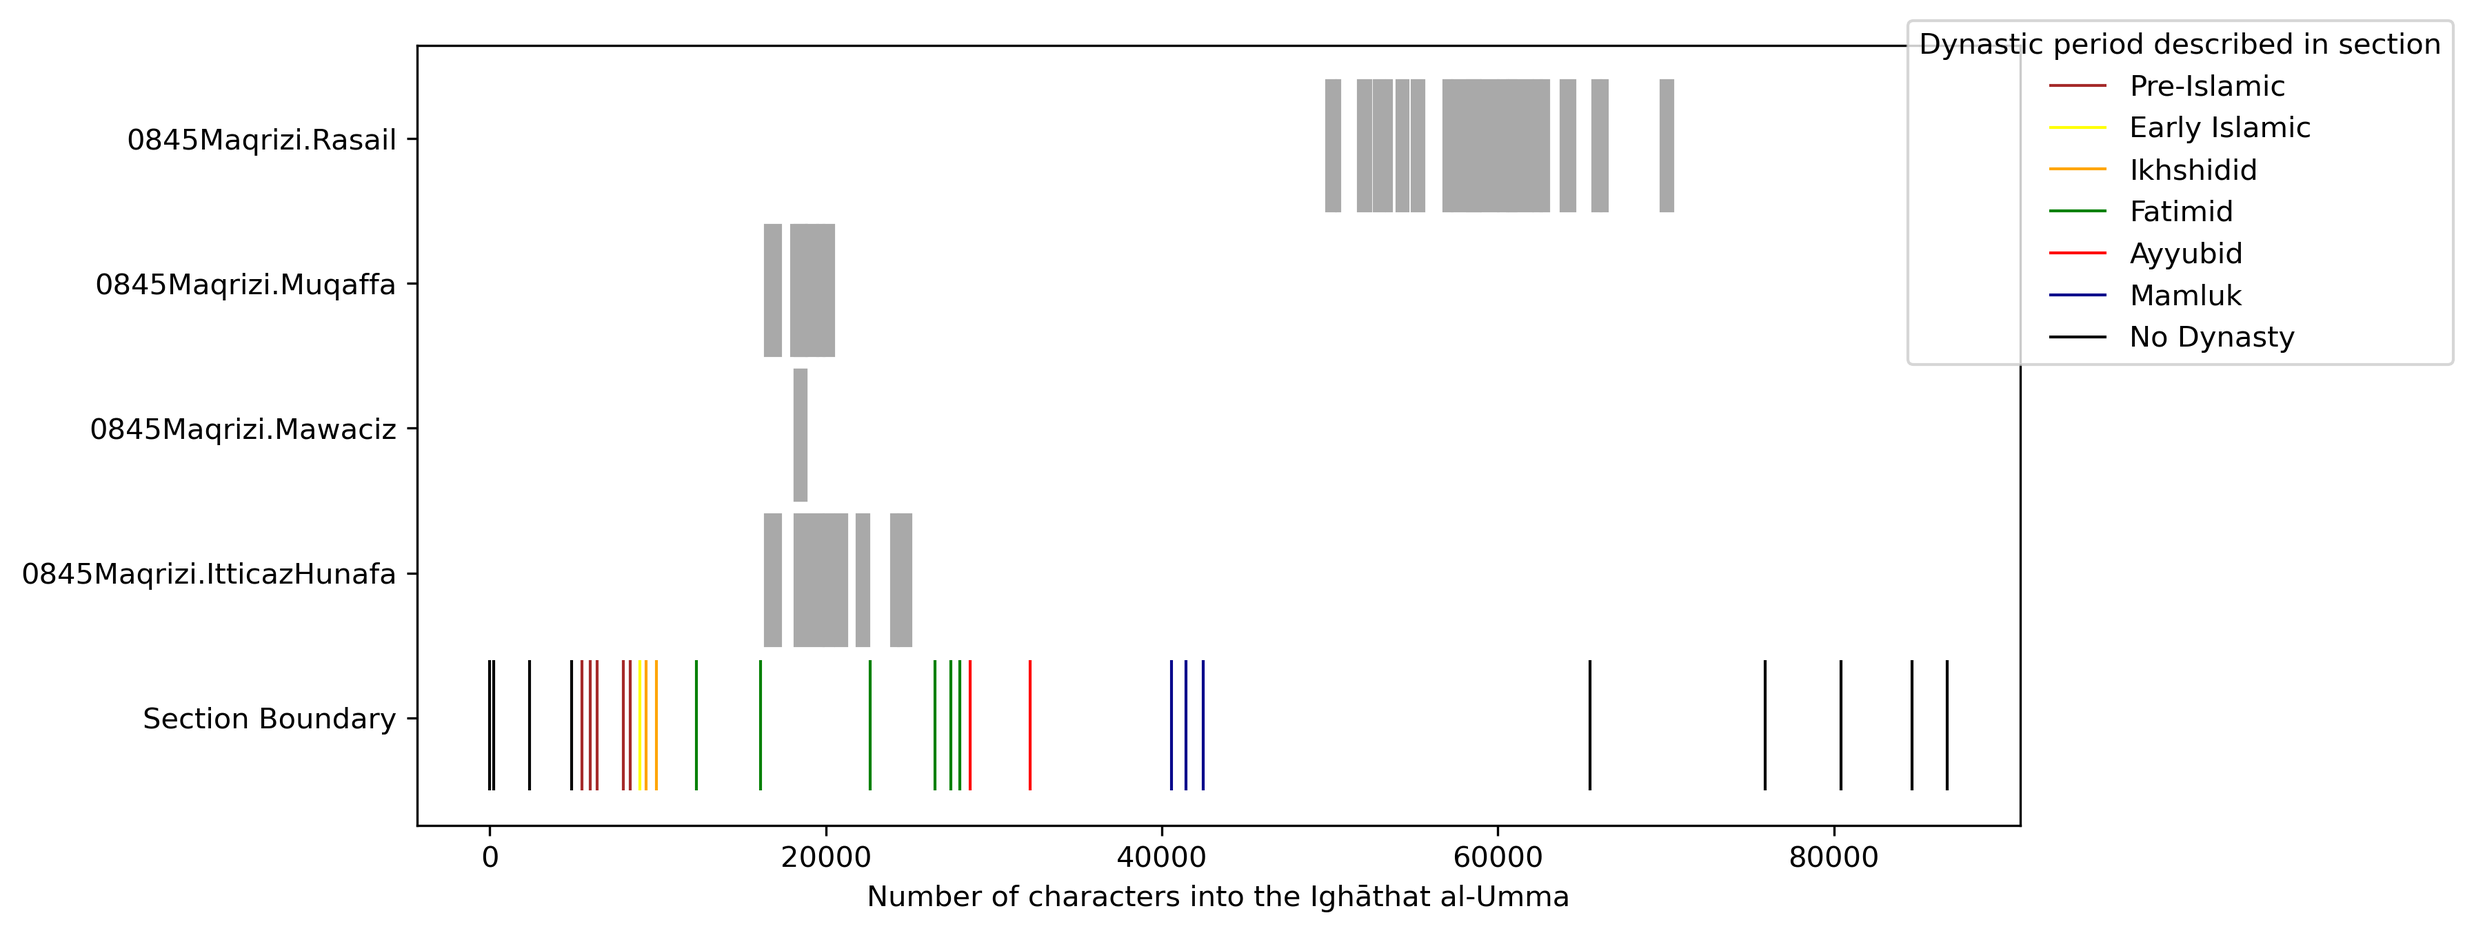
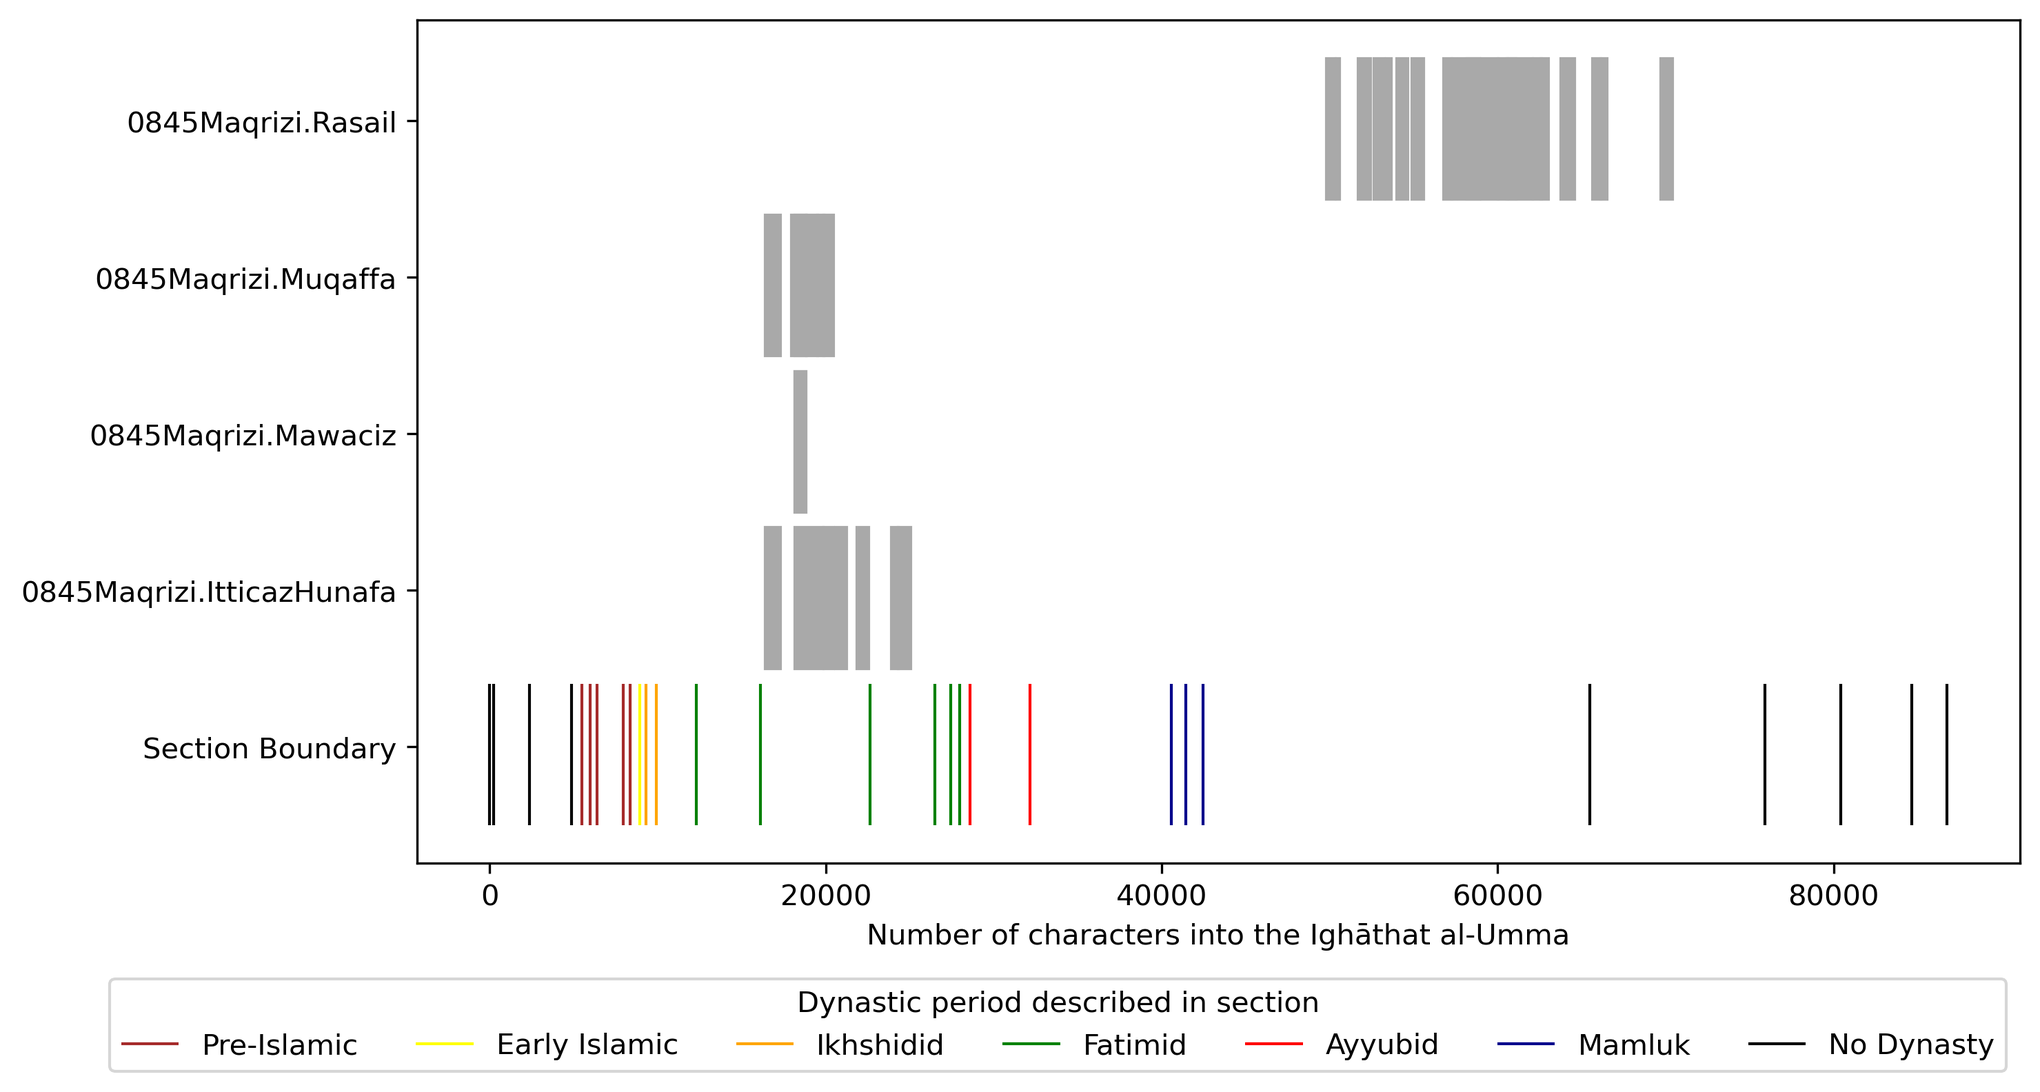
updates to graphing scripts - now maps can produce 'other reuse' and graphs add corresponding patch

diff --git a/scripts/graphing/graph_terms_periods.py b/scripts/graphing/graph_terms_periods.py
@@ -10,11 +10,11 @@ import re
 import matplotlib.pyplot as plt
 from matplotlib import ticker
 
-def graph_terms_periods(section_terms_csv, terms, out, text_title, focussed_dates = None, columns = [{"data": "fatimid", "label": "Fatimid"}, {"data": "ayyubid", "label": "Ayyubid"}, {"data": "mamluk", "label": "Mamluk"}], other_cat = None, csv_ms = None, reuse_map = None, multiples = True, thres = 1
-                     , separate_sections_graph = False):
+def graph_terms_periods(section_terms_csv, out, text_title, set_col = None, terms = None, focussed_dates = None, columns = [{"data": "fatimid", "label": "Fatimid"}, {"data": "ayyubid", "label": "Ayyubid"}, {"data": "mamluk", "label": "Mamluk"}], other_cat = None, csv_ms = None, reuse_map = None, multiples = True, thres = 1
+                     , separate_sections_graph = False, plot_width = 7, plot_height = 11):
     
     df_section = pd.read_csv(section_terms_csv)
-    terms_df = pd.read_csv(terms)
+    
     if focussed_dates is not None:
         focussed_dates_df = pd.read_csv(focussed_dates)
     
@@ -23,31 +23,40 @@ def graph_terms_periods(section_terms_csv, terms, out, text_title, focussed_date
     else:
         data = df_section.copy()
     
-    ### Create category aggregations and separate dfs and create category list
-    term_categories = []
-    for term in terms_df["Cat"].drop_duplicates().to_list():
-        print(term)
-        if focussed_dates is not None:
-            date_range = focussed_dates_df[focussed_dates_df["Cat"] == term]
-            if len(date_range) == 1:                
-                date_range = date_range.values.tolist()[0]
-                print(date_range)
-                terms_list = []
-                for i in range(int(date_range[0]), int(date_range[1])):
-                    col_title = "@YY" + str(i)
-                    if col_title in data.columns:
-                        terms_list.append(col_title)
-                cols = terms_df[terms_df["Cat"] == term]["Term"].to_list()
-                cols.extend(terms_list)
+    if set_col is not None:
+        print("Using fixed column list")
+        print(set_col)
+        term_categories = set_col.copy()
+    else:    
+        terms_df = pd.read_csv(terms)
+        ### Create category aggregations and separate dfs and create category list
+        term_categories = []
+        for term in terms_df["Cat"].drop_duplicates().to_list():
+            print(term)
+            if focussed_dates is not None:
+                date_range = focussed_dates_df[focussed_dates_df["Cat"] == term]
+                if len(date_range) == 1:                
+                    date_range = date_range.values.tolist()[0]
+                    print(date_range)
+                    terms_list = []
+                    for i in range(int(date_range[0]), int(date_range[1])):
+                        col_title = "@YY" + str(i)
+                        if col_title in data.columns:
+                            terms_list.append(col_title)
+                    cols = terms_df[terms_df["Cat"] == term]["Term"].to_list()
+                    cols.extend(terms_list)
+                else:
+                    cols = terms_df[terms_df["Cat"] == term]["Term"].to_list()
             else:
                 cols = terms_df[terms_df["Cat"] == term]["Term"].to_list()
-        else:
-            cols = terms_df[terms_df["Cat"] == term]["Term"].to_list()
-        term_categories.append({"term": term, "cols": cols})
-
+            term_categories.append({"term": term, "cols": cols})
     
-    print(term_categories)
-    
+        
+        print(term_categories)
+        
+        # Create aggregated data for term cats
+        for cat in term_categories:
+            data[cat["term"]] = data[cat["cols"]].sum(axis=1)
     
     if not separate_sections_graph:
         fig, axs = plt.subplots(len(term_categories), 1, sharex = True, sharey = False)
@@ -55,11 +64,10 @@ def graph_terms_periods(section_terms_csv, terms, out, text_title, focussed_date
     if separate_sections_graph:
         fig, axs = plt.subplots(len(term_categories) + 1, 1, sharex = True, sharey = False)
     
-    fig.set_size_inches(8.5, 11)
+    fig.set_size_inches(plot_width, plot_height)
     
-    # Create aggregated data for term cats
-    for cat in term_categories:
-        data[cat["term"]] = data[cat["cols"]].sum(axis=1)
+    
+    
     
     print(data)
     
@@ -123,15 +131,35 @@ def graph_terms_periods(section_terms_csv, terms, out, text_title, focussed_date
     max_val = data[col_list].values.max(1).max()
     
     if not separate_sections_graph:
-        for idx, column in enumerate(term_categories):
-            axs[idx].plot("mid_pos", column["term"], linestyle = '-', data = data, alpha = 0.8, linewidth = 0.7)
-            axs[idx].set_ylabel(column["term"])
-            axs[idx].xaxis.set_major_formatter(ticker.StrMethodFormatter("{x:.0f}"))
+        if len(term_categories) == 1:
+            column = term_categories[0]
+            axs.plot("mid_pos", column["term"], linestyle = '-', data = data, alpha = 0.8, linewidth = 0.7)
+            axs.set_ylabel(column["term"])
+            axs.xaxis.set_major_formatter(ticker.StrMethodFormatter("{x:.0f}"))
             max_val = data[column["term"]].values.max()
-            axs[idx].vlines("st_pos", ymin = 0 - (max_val/5), ymax = 0 - (max_val/100), colors= 'black', data=df_section, linewidth = 0.2, label = "Section\nboundary", alpha = 0.4)
-            axs[idx].vlines("st_pos", ymin = 0 - (max_val/5)/2, ymax = 0 - (max_val/100), colors= 'fuchsia', data=data_multiple, linewidth = 0.2, label = "Multiple dates")
-            axs[idx].vlines("st_pos", ymin = 0 - (max_val/5), ymax = 0 - (max_val/100) - (max_val/5)/2, colors= unique_dyn_sects["colour"] , data=unique_dyn_sects, linewidth = 0.2, label = "Section\nboundary")
-    
+            axs.vlines("st_pos", ymin = 0 - (max_val/5), ymax = 0 - (max_val/100), colors= 'black', data=df_section, linewidth = 0.2, label = "Section\nboundary", alpha = 0.4)
+            if multiples:
+                axs.vlines("st_pos", ymin = 0 - (max_val/5)/2, ymax = 0 - (max_val/100), colors= 'fuchsia', data=data_multiple, linewidth = 0.2, label = "Multiple dates")
+                axs.vlines("st_pos", ymin = 0 - (max_val/5), ymax = 0 - (max_val/100) - (max_val/5)/2, colors= unique_dyn_sects["colour"] , data=unique_dyn_sects, linewidth = 0.2, label = "Section\nboundary")
+            tick_list = []
+            for i in range(0, max_val +1, 1):
+                tick_list.append(i)
+            axs.set_yticks(tick_list)
+        else:
+            for idx, column in enumerate(term_categories):
+                axs[idx].plot("mid_pos", column["term"], linestyle = '-', data = data, alpha = 0.8, linewidth = 0.7)
+                axs[idx].set_ylabel(column["term"])
+                axs[idx].xaxis.set_major_formatter(ticker.StrMethodFormatter("{x:.0f}"))
+                max_val = data[column["term"]].values.max()
+                axs[idx].vlines("st_pos", ymin = 0 - (max_val/5), ymax = 0 - (max_val/100), colors= 'black', data=df_section, linewidth = 0.2, label = "Section\nboundary", alpha = 0.4)
+                if multiples:
+                    axs[idx].vlines("st_pos", ymin = 0 - (max_val/5)/2, ymax = 0 - (max_val/100), colors= 'fuchsia', data=data_multiple, linewidth = 0.2, label = "Multiple dates")
+                    axs[idx].vlines("st_pos", ymin = 0 - (max_val/5), ymax = 0 - (max_val/100) - (max_val/5)/2, colors= unique_dyn_sects["colour"] , data=unique_dyn_sects, linewidth = 0.2, label = "Section\nboundary")
+                tick_list = []
+                for i in range(0, max_val + 1, 1):
+                    tick_list.append(i)
+                axs[idx].set_yticks(tick_list)
+                
     if separate_sections_graph:
         for idx, column in enumerate(term_categories):
             axs[idx].plot("mid_pos", column["term"], linestyle = '-', data = data, alpha = 0.8, linewidth = 0.7)
@@ -146,14 +174,16 @@ def graph_terms_periods(section_terms_csv, terms, out, text_title, focussed_date
                 axs[-1].vlines("begin", ymin = (max_val/4)*3, ymax = max_val, colors= 'colour', data=colour_subset, linewidth = 0.2, label = "Reuse", alpha = 0.4)
             
             axs[-1].vlines("st_pos", ymin = 0, ymax = (max_val/4), colors= 'black', data=df_section, linewidth = 0.2, label = "Section\nboundary", alpha = 0.4)
-            axs[-1].vlines("st_pos", ymin = (max_val/4), ymax = (max_val/4)*2, colors= 'fuchsia', data=data_multiple, linewidth = 0.2, label = "Multiple dates")
-            axs[-1].vlines("st_pos", ymin = (max_val/4)*2, ymax = (max_val/4)*3, colors= unique_dyn_sects["colour"] , data=unique_dyn_sects, linewidth = 0.2, label = "Section\nboundary")
-                
+            if multiples:
+                axs[-1].vlines("st_pos", ymin = (max_val/4), ymax = (max_val/4)*2, colors= 'fuchsia', data=data_multiple, linewidth = 0.2, label = "Multiple dates")
+                axs[-1].vlines("st_pos", ymin = (max_val/4)*2, ymax = (max_val/4)*3, colors= unique_dyn_sects["colour"] , data=unique_dyn_sects, linewidth = 0.2, label = "Section\nboundary")
+                    
         else:    
             axs[-1].vlines("st_pos", ymin = 0, ymax = (max_val/3), colors= 'black', data=df_section, linewidth = 0.2, label = "Section\nboundary", alpha = 0.4)
-            axs[-1].vlines("st_pos", ymin = (max_val/3), ymax = (max_val/3)*2, colors= 'fuchsia', data=data_multiple, linewidth = 0.2, label = "Multiple dates")
-            axs[-1].vlines("st_pos", ymin = (max_val/3)*2, ymax = max_val, colors= unique_dyn_sects["colour"] , data=unique_dyn_sects, linewidth = 0.2, label = "Section\nboundary")
-            
+            if multiples:
+                axs[-1].vlines("st_pos", ymin = (max_val/3), ymax = (max_val/3)*2, colors= 'fuchsia', data=data_multiple, linewidth = 0.2, label = "Multiple dates")
+                axs[-1].vlines("st_pos", ymin = (max_val/3)*2, ymax = max_val, colors= unique_dyn_sects["colour"] , data=unique_dyn_sects, linewidth = 0.2, label = "Section\nboundary")
+                
     # data_list = data[["st_pos", "Topic_id"]].values.tolist()
     # for row in data_list:
     #     if row[1] != 0:
@@ -178,9 +208,11 @@ dyn_columns = [{"data": "first-century", "label": "First century", "colour" : "s
                {"data": "bahri-mamluk", "label": "Bahri Mamluk", "colour": "slateblue"},
                {"data": "circassian-mamluk", "label": "Circassian Mamluk", "colour": "darkblue"}]
 
-out = "test_terms.png"
+out = "Khitat_806_mentions.png"
 terms_csv = "C:/Users/mathe/Documents/Github-repos/fitna-study/terms_analysis/0845Maqrizi.Mawaciz.MAB02082022-sectionterms.csv"
 terms = "C:/Users/mathe/Documents/Github-repos/fitna-study/terms_analysis/terms_resources/terms_list.csv"
 dates = "C:/Users/mathe/Documents/Github-repos/fitna-study/terms_analysis/terms_resources/dates_list.csv"
+set_col = [{"term": "@YY806", "cols": ["@YY806"]}]
 
-graph_terms_periods(terms_csv, terms, out, "Khiṭaṭ", focussed_dates = dates, columns = dyn_columns)
+
+graph_terms_periods(terms_csv, out, "Khiṭaṭ", set_col = set_col, columns = dyn_columns, multiples=False, plot_height = 5)

diff --git a/scripts/graphing/graph_reuse.py b/scripts/graphing/graph_reuse.py
@@ -10,20 +10,33 @@ import matplotlib.pyplot as plt
 from matplotlib import patches
 import pandas as pd
 
-def plot_reuse(reuse_map, out, maintext, section_map = None, top_colours = None, annotation = None):
+def plot_reuse(reuse_map, out, maintext, section_map = None, top_colours = None, annotation = None, label_conv = None, overlap_patch = True):
     
-    reuse_df = pd.read_csv(reuse_map)
+    reuse_df = pd.read_csv(reuse_map, encoding="utf")
+    
+    if label_conv is not None:
+        reuse_df_dict = reuse_df.to_dict("records")
+        for row in reuse_df_dict:
+            if row["Text"] in label_conv.keys():          
+                new_label = label_conv[row["Text"]]
+                row["Text"] = new_label
+            
+        reuse_df = pd.DataFrame(reuse_df_dict)
 
+    
     fig, axs = plt.subplots(1, 1)
-    fig.set_size_inches(10, 5)
+    fig.set_size_inches(10, 6)
     
     if section_map is not None:
         section_df = pd.read_csv(section_map)
         if top_colours is not None:
+            box = axs.get_position()
+            axs.set_position([box.x0, box.y0 + box.height * 0.1,
+                 box.width, box.height * 0.9])
             for top in top_colours:
                 top_sections = section_df[section_df["Topic_id"] == top["id"]]
                 axs.vlines("st_pos", ymin = -1, ymax = -0.1, colors= top["colour"], data=top_sections, linewidth = 1, label = top["label"])
-            axs.legend(loc='upper center', bbox_to_anchor=(1.1, 1.05), title = "Dynastic period described in section")
+            axs.legend(loc='upper center', title = "Dynastic period described in section", ncol=len(top_colours), bbox_to_anchor=(0.4, -0.12))
         else:            
             axs.vlines("st_pos", ymin = -1, ymax = -0.1, colors= 'black', data=section_df, linewidth = 1, label = "Section\nboundary")
         
@@ -33,14 +46,23 @@ def plot_reuse(reuse_map, out, maintext, section_map = None, top_colours = None,
         y_value_list = []
     
     text_list = reuse_df["Text"].sort_values().drop_duplicates().to_list()
-    
+    if "Other" in text_list:
+        text_list.remove("Other")
+    if overlap_patch:
+        data_dict = reuse_df.to_dict("records")
+    else:
+        data_dict = reuse_df[reuse_df["Text"] == "Other"].to_dict("records")
+    for reuse_instance in data_dict:
+        sec_width = (reuse_instance["ch_end_tar"] - reuse_instance["ch_start_tar"])
+        patch = patches.Rectangle(xy = (reuse_instance["ch_start_tar"], 0), width = sec_width, height = 1 * len(text_list), color = "lightgrey")
+        axs.add_patch(patch)
       
     for idx, text in enumerate(text_list):
         data_dict = reuse_df[reuse_df["Text"] == text].to_dict("records")
         y_value_list.append(idx + 0.5)
         for reuse_instance in data_dict:
             sec_width = (reuse_instance["ch_end_tar"] - reuse_instance["ch_start_tar"])
-            patch = patches.Rectangle(xy = (reuse_instance["ch_start_tar"], idx), width = sec_width, height = 0.9, color = "darkgrey")
+            patch = patches.Rectangle(xy = (reuse_instance["ch_start_tar"], idx), width = sec_width, height = 0.9, color = "black")
             axs.add_patch(patch)
     
     if section_map is not None:
@@ -60,8 +82,8 @@ def plot_reuse(reuse_map, out, maintext, section_map = None, top_colours = None,
     plt.show
     
 
-out = "Igatha_self_reuse.png"
-reuse_map = "C:/Users/mathe/Documents/Github-repos/fitna-study/text_reuse/maps/0845Maqrizi.IghathaUmma.Kraken210223142017.cl-tagged-reuse.csv"
+out = "Igatha_self_reuse-labelled-full-reuseback.png"
+reuse_map = "C:/Users/mathe/Documents/Github-repos/fitna-study/text_reuse/revised_maps/0845Maqrizi.IghathaUmma.Kraken210223142017.cl-tagged-reuse.csv"
 section_map = "C:/Users/mathe/Documents/Github-repos/fitna-study/text_reuse/maps/0845Maqrizi.IghathaUmma.Kraken210223142017.cl-tagged-section.csv"
 topics = [{"id": "@PREIS@", "colour": "brown", "label" : "Pre-Islamic"},
           {"id": "@EARIS@", "colour": "yellow", "label" : "Early Islamic"},
@@ -76,5 +98,10 @@ annotations = [{"text": "Fatimid Fitna", "x": 500, "y": -0.6},
                {"text": "Burning of Miṣr", "x": 12000, "y": -0.6},
                {"text": "Other\ncrises", "x": 17300, "y": -0.75}]
 
+labels ={"0845Maqrizi.ItticazHunafa": "Ittiʿāẓ al-Ḥunafāʾ",
+         "0845Maqrizi.Muqaffa": "al-Muqaffā al-Kabīr",
+         "0845Maqrizi.Mawaciz": "Khiṭaṭ",
+         "0845Maqrizi.Rasail": "Rasāʾil"}
 
-plot_reuse(reuse_map, out, "Ighāthat al-Umma", section_map = section_map, top_colours = topics)
+
+plot_reuse(reuse_map, out, "Ighāthat al-Umma", section_map = section_map, top_colours = topics, label_conv=labels)

diff --git a/scripts/multi_reuse_map.py b/scripts/multi_reuse_map.py
@@ -13,7 +13,7 @@ import re
 import pandas as pd
 from pattern_mapping_cat import pattern_map_cat
 
-def multi_reuse_map(all_cls, tagged_text_path, dir_out, reused_texts = [], section_map = False, tops = None, date_cats = []):
+def multi_reuse_map(all_cls, tagged_text_path, dir_out, reused_texts = [], section_map = False, tops = None, date_cats = [], other_map = True):
     """For reused texts supply just 0000author.book URIs - the selection of all_cls will
     determine which version is used"""
     # Get filename
@@ -35,6 +35,7 @@ def multi_reuse_map(all_cls, tagged_text_path, dir_out, reused_texts = [], secti
             cluster_offsets[cluster_no]["ch_start_tar"] = cluster.start()
         if cluster.group(1) == "e":
             cluster_offsets[cluster_no]["ch_end_tar"] = cluster.start()
+        
     
     print("cluster offsets calculated")
     print(cluster_offsets)
@@ -44,24 +45,35 @@ def multi_reuse_map(all_cls, tagged_text_path, dir_out, reused_texts = [], secti
         print("Excluding main text:" + ".".join(text_name.split(".")[0:2]))
         filtered_clusters = all_cls[all_cls["book"] != ".".join(text_name.split(".")[0:2])]
     else:
+        if other_map:
+            remaining_clusters = all_cls[all_cls["book"] != ".".join(text_name.split(".")[0:2])]
         for reused_text in reused_texts:
             print(reused_text)
             book_data = all_cls[all_cls["book"] == reused_text]
-            print(book_data)
+
             filtered_clusters = pd.concat([filtered_clusters, book_data])
-        
-    print(filtered_clusters)
+            if other_map:
+                remaining_clusters = remaining_clusters[remaining_clusters["book"] != reused_text]
+      
+
     # Loop through clusters and create the df
     reuse_map_out = []
     for cluster in cluster_offsets.keys():
-        
-        cluster_data = filtered_clusters[filtered_clusters["cluster"] == int(cluster)][["book", "seq"]].values.tolist()
+        print(cluster)
+        cluster_data = filtered_clusters[filtered_clusters["cluster"] == int(cluster)][["book", "seq", "id"]].values.tolist()
         cluster_start = cluster_offsets[cluster]["ch_start_tar"]
         cluster_end = cluster_offsets[cluster]["ch_end_tar"]
-        print(cluster_data)
+
         for book in cluster_data:
             
-            reuse_map_out.append({"Text": book[0], "ch_start_tar":cluster_start, "ch_end_tar":cluster_end, "source_book_ms": book[1]})
+            reuse_map_out.append({"Text": book[0], "id": book[2], "ch_start_tar":cluster_start, "ch_end_tar":cluster_end, "source_book_ms": book[1], "book_count": 1, "cluster": cluster})
+        if reused_texts != [] and other_map:
+            cluster_data = remaining_clusters[remaining_clusters["cluster"] == int(cluster)][["book", "seq"]].values.tolist()
+            cluster_start = cluster_offsets[cluster]["ch_start_tar"]
+            cluster_end = cluster_offsets[cluster]["ch_end_tar"]
+            print(cluster_data)
+            if len(cluster_data) > 0:            
+                reuse_map_out.append({"Text": "Other", "id": "n/a", "ch_start_tar":cluster_start, "ch_end_tar":cluster_end, "source_book_ms": 0, "book_count": len(cluster_data), "cluster": cluster})
     
     reuse_out = pd.DataFrame(reuse_map_out)
     
@@ -77,7 +89,7 @@ def multi_reuse_map(all_cls, tagged_text_path, dir_out, reused_texts = [], secti
         
 
 
-text_in = "C:/Users/mathe/Documents/Github-repos/fitna-study/text_reuse/clusters_tagged/0845Maqrizi.Mawaciz.sectionKhirabFustat.cl-tagged"
+text_in = "C:/Users/mathe/Documents/Github-repos/fitna-study/text_reuse/clusters_tagged/0845Maqrizi.IghathaUmma.Kraken210223142017.cl-tagged"
 reused_texts = ["0845Maqrizi.ItticazHunafa",
 "0845Maqrizi.Mawaciz",
 "0845Maqrizi.Muqaffa",
@@ -85,4 +97,4 @@ reused_texts = ["0845Maqrizi.ItticazHunafa",
 "0845Maqrizi.ShudhurCuqud",
 "0845Maqrizi.Suluk"
 ]
-out_dir = "C:/Users/mathe/Documents/Github-repos/fitna-study/text_reuse/maps"
+out_dir = "C:/Users/mathe/Documents/Github-repos/fitna-study/text_reuse/revised_maps"

diff --git a/scripts/graphing/plot_column.py b/scripts/graphing/plot_column.py
@@ -1,0 +1,13 @@
+# -*- coding: utf-8 -*-
+"""
+Created on Thu Sep  1 10:31:56 2022
+
+@author: mathe
+"""
+
+import pandas as pd
+import re
+import matplotlib.pyplot as plt
+from matplotlib import ticker
+
+def plot_column(data_section_csv, col_name, )
